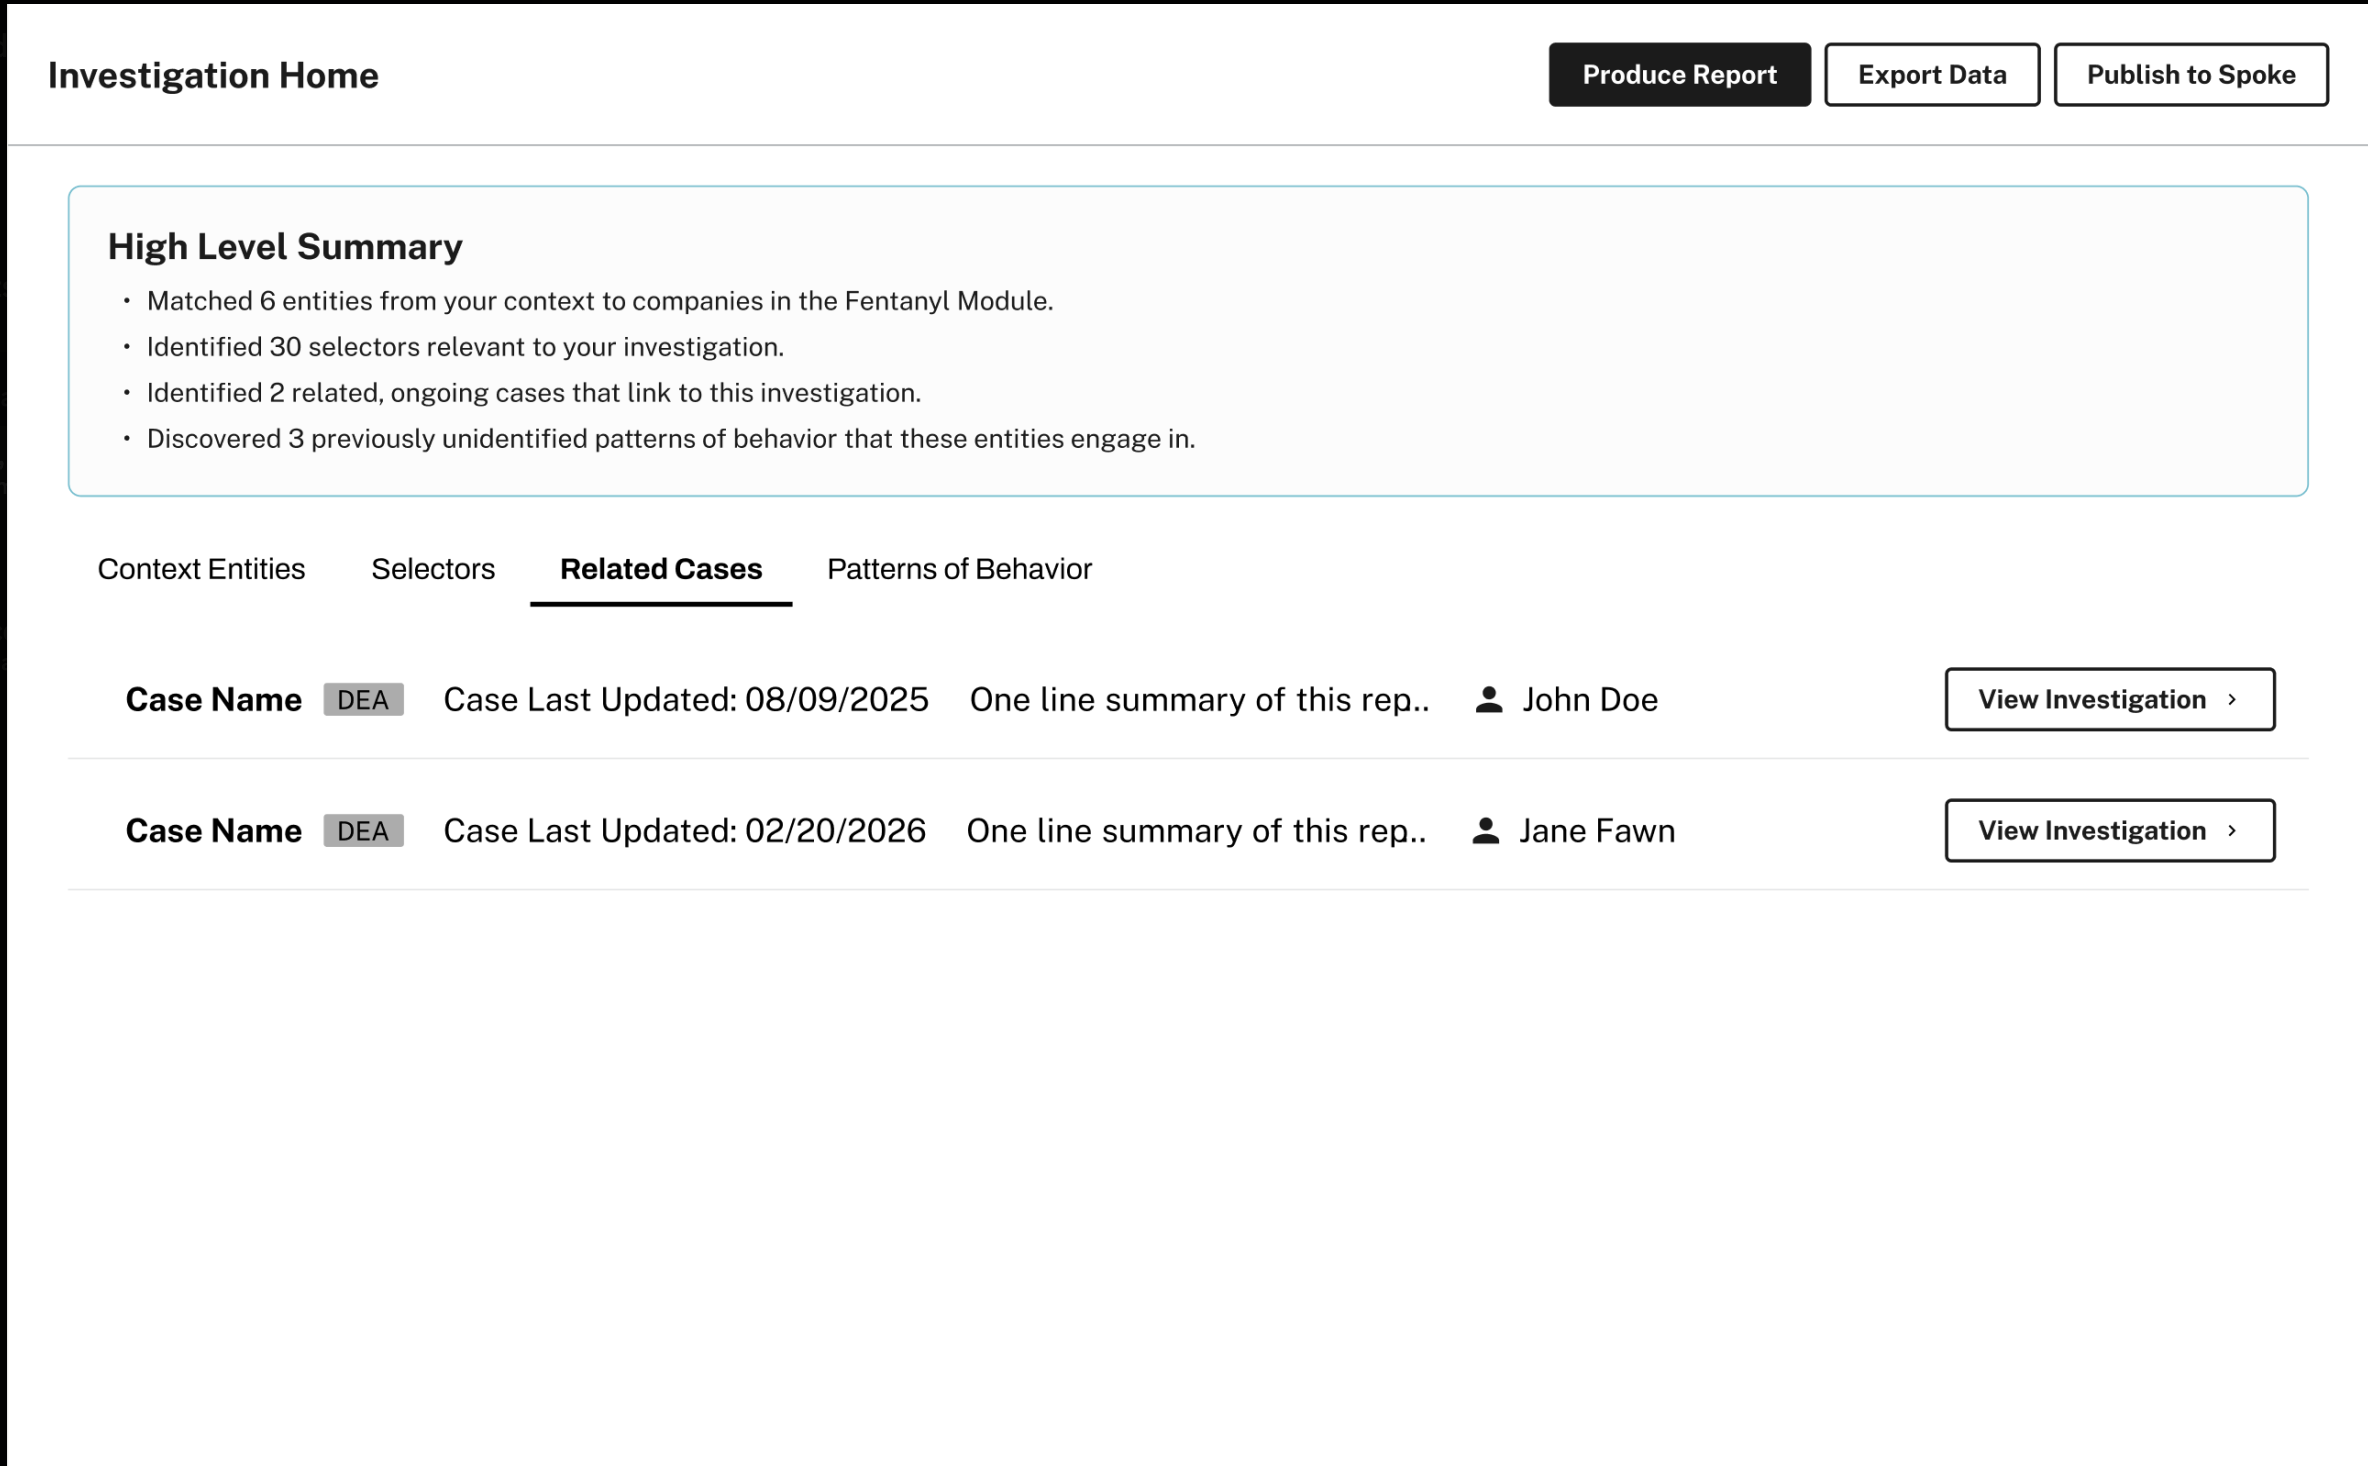
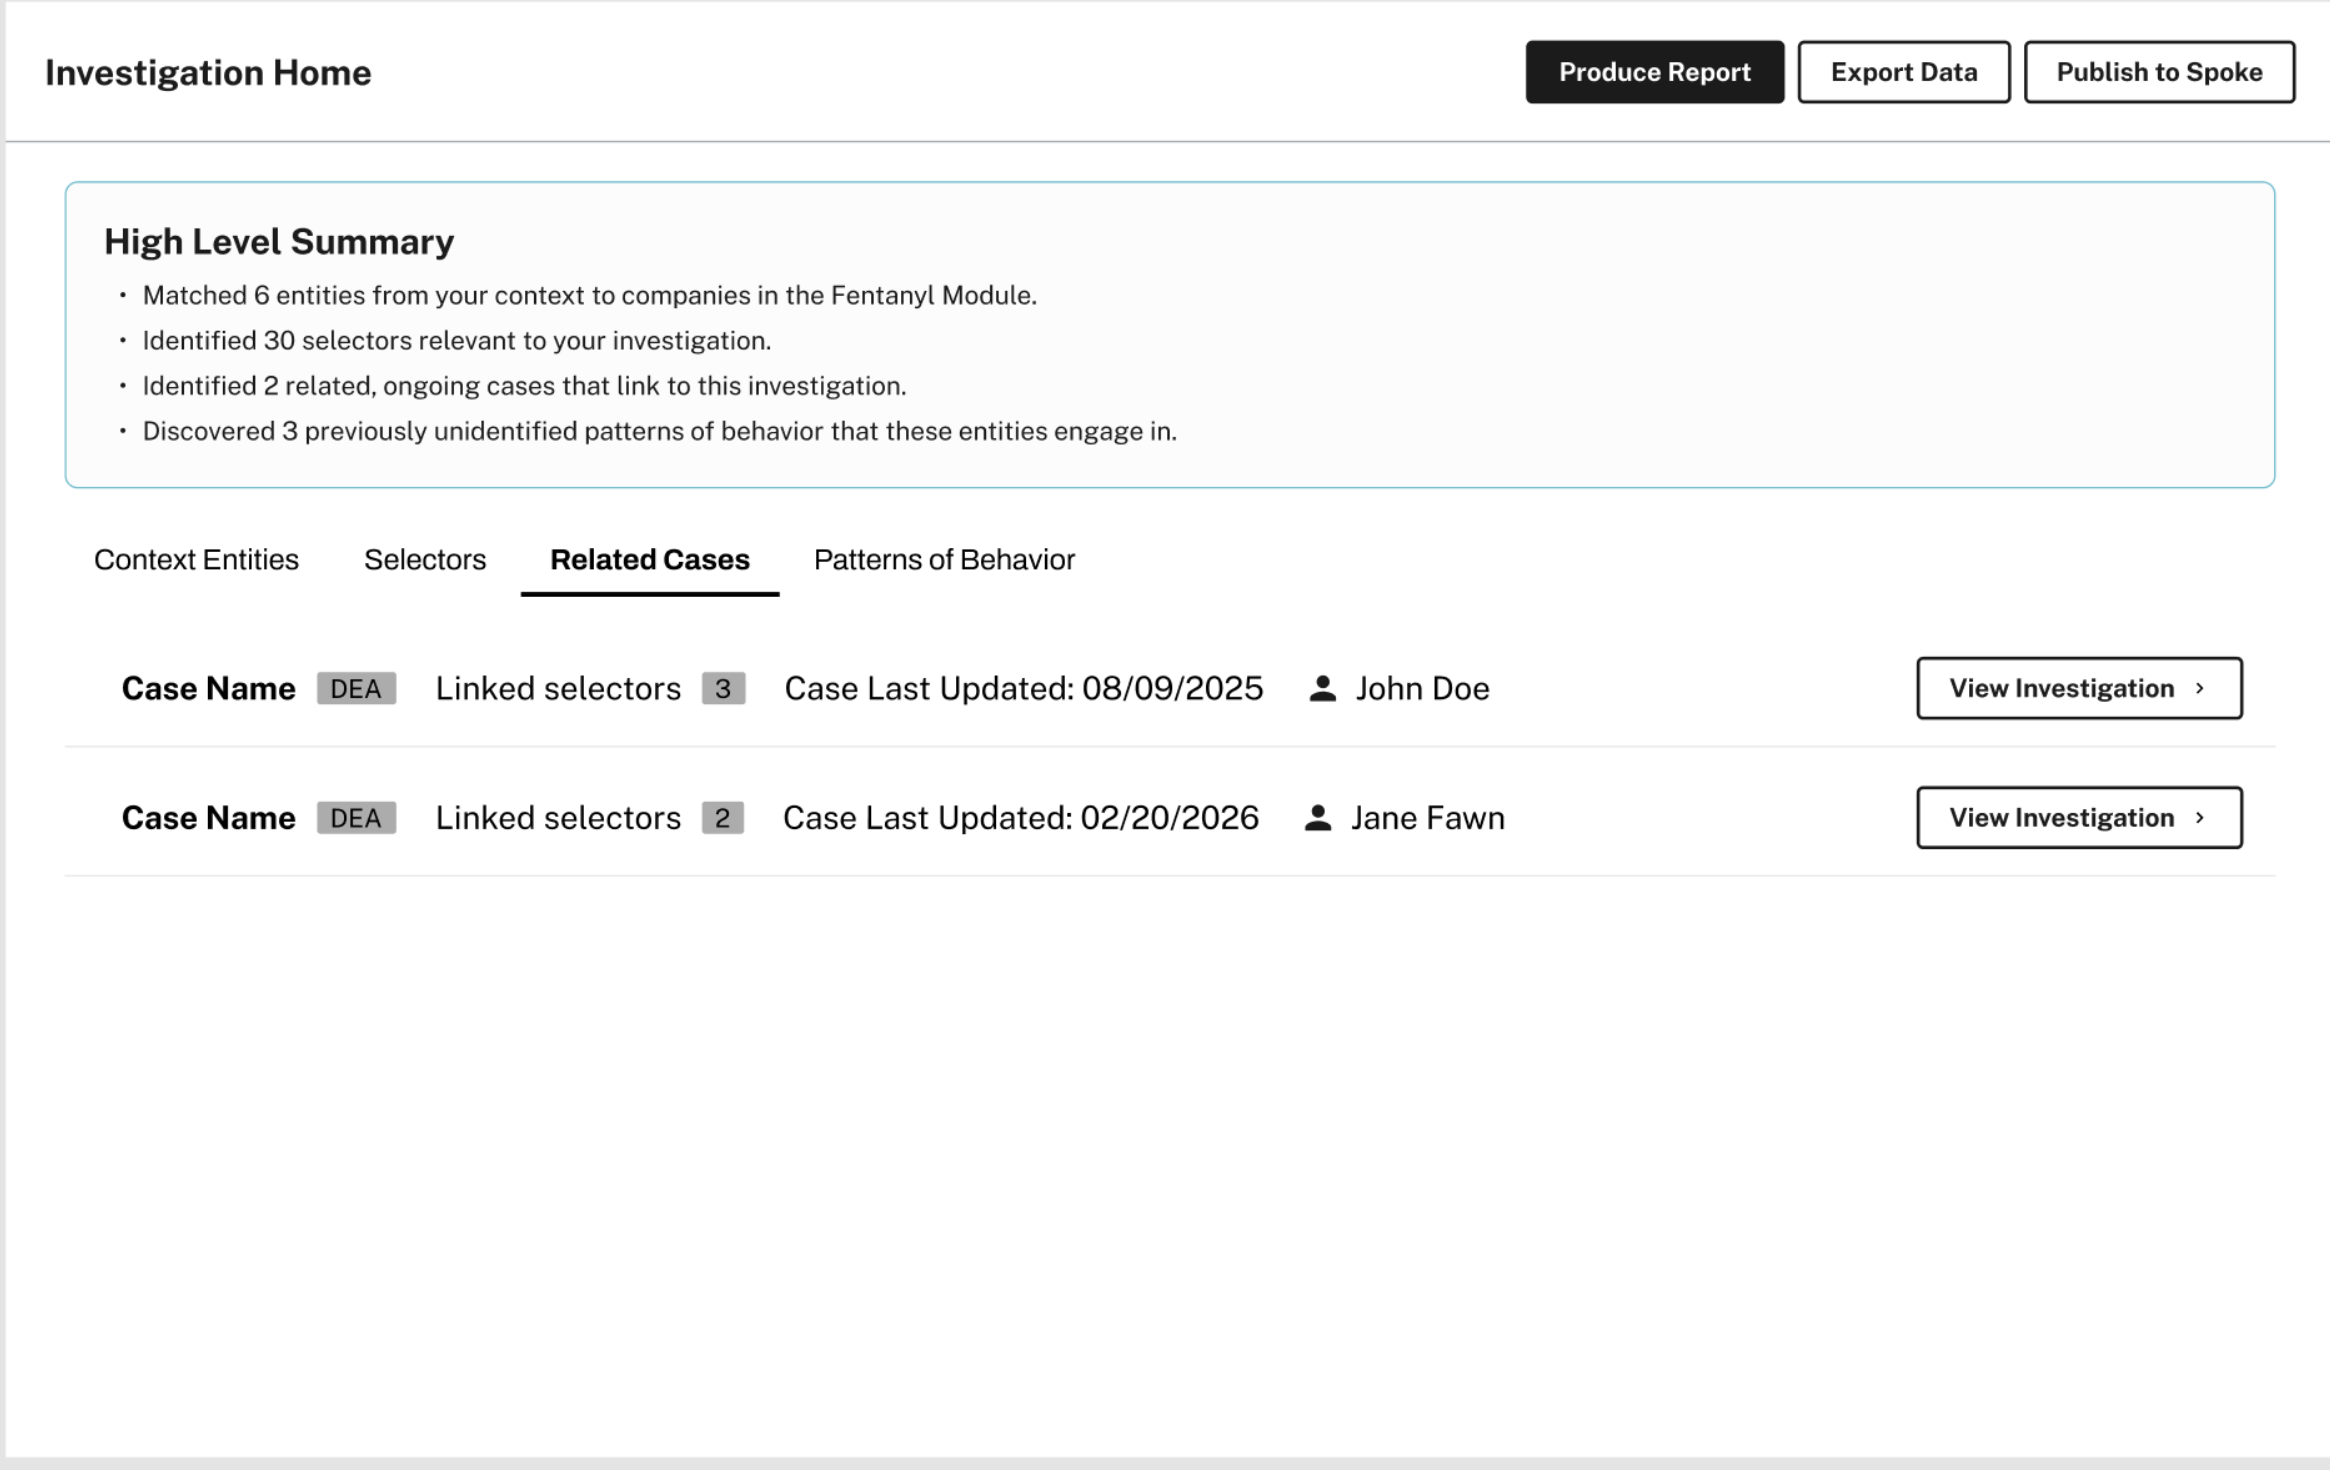
add selectors

diff --git a/README.md b/README.md
@@ -1,24 +1,106 @@
-# README
+# Holocron
 
-This README would normally document whatever steps are necessary to get the
-application up and running.
+> A hackathon demo for turning scattered counter-narcotics research into a shared investigation workspace.
 
-Things you may want to cover:
+`Rails 8` `Hotwire` `Tailwind` `SQLite` `USWDS-inspired UI` `demo dataset`
 
-* Ruby version
+Holocron is built for an analyst like Frances at State/INL: start with an objective, ingest links and context, map that input onto an existing module, and surface the entities, selectors, related cases, and behavior patterns that matter fastest. The current repo is optimized as a polished demo with seeded data, stubbed scraping/enrichment hooks, and a clear end-to-end workflow.
 
-* System dependencies
+## Why This Matters
 
-* Configuration
+- Analysts start from fragmented context: links, notes, documents, spreadsheets, and marketplace traces.
+- Existing workflows are slow, manual, and hard to share across offices.
+- Holocron compresses that into one guided flow: intake, triage, enrichment, and investigation handoff.
 
-* Database creation
+## Demo Flow
 
-* Database initialization
+```mermaid
+flowchart LR
+    A[Investigation objective] --> B[Add links and files]
+    B --> C[Select module]
+    C --> D[Parse and ingest context]
+    D --> E[Match entities and selectors]
+    E --> F[Link related cases]
+    F --> G[Flag patterns of behavior]
+    G --> H[Produce report and share]
+```
 
-* How to run the test suite
+## What Reviewers Should Look At
 
-* Services (job queues, cache servers, search engines, etc.)
+1. Start on the intake screen and enter any investigation objective.
+2. Watch the setup sequence simulate parsing, scraping, and module matching.
+3. Land in `Investigation Home` and click through:
+   `Context Entities`, `Selectors`, `Related Cases`, and `Patterns of Behavior`.
 
-* Deployment instructions
+## Workflow Screens
 
-* ...
+### 1. Intake
+![Welcome page](design/workflow/1-welcome-page.png)
+
+The analyst defines the mission, attaches context, and selects a prebuilt module to accelerate matching.
+
+### 2. Parsing
+![Tool parses input from welcome page](design/workflow/2-tool-parses-input-from-welcome-page.png)
+
+The app stages the work as a pipeline so the user understands what is happening before the workspace opens.
+
+### 3. Investigation Home
+![Data hub main investigation](design/workflow/3-data-hub-main-investigation.png)
+
+The core workspace summarizes what was matched and turns the investigation into a browsable operating picture.
+
+### 4. Related Cases
+![Investigation home related cases](design/workflow/4-investigation-home-related-cases.png)
+
+Cross-case overlap is surfaced directly so teams can pivot from raw research to active investigations.
+
+### 5. Patterns of Behavior
+![Investigation home pattern of behavior](design/workflow/5-investigation-home-pattern-of-behavior.png)
+
+The strongest demo moment is not just data collection, but the system identifying recurring tactics and tradecraft.
+
+## System Snapshot
+
+```mermaid
+flowchart TD
+    UI[Intake + Investigation UI]
+    DB[(SQLite demo data)]
+    SRC[Sources]
+    SCR[Scrapers]
+    MSG[Analyst chat]
+    SHR[Office sharing]
+    EXT[Future live integrations<br/>Crustdata / web scraping / exports]
+
+    UI --> DB
+    UI --> SRC
+    UI --> SCR
+    UI --> MSG
+    UI --> SHR
+    SCR -.stubbed hooks.-> EXT
+    MSG -.stubbed enrichment.-> EXT
+```
+
+## Current Scope
+
+- Live today: intake flow, setup simulation, investigation views, source records, scraper records, sharing model, seeded/demo data.
+- Stubbed by design for the hackathon: external scraping, live enrichment, report generation, and publish/export actions.
+- Best framing for judges: this is a strong product demo with the right architecture seams already in place.
+
+## Run Locally
+
+```bash
+bundle install
+bin/rails db:prepare db:seed
+bin/dev
+```
+
+Open `http://localhost:3000`.
+
+## Stack
+
+- Ruby `3.3.6`
+- Rails `8`
+- SQLite
+- Hotwire + Stimulus
+- Tailwind CSS
+
